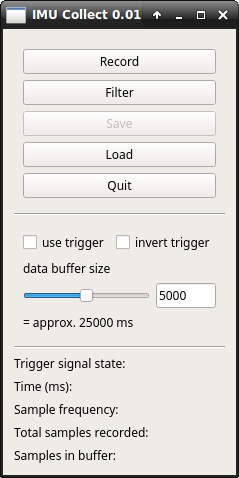
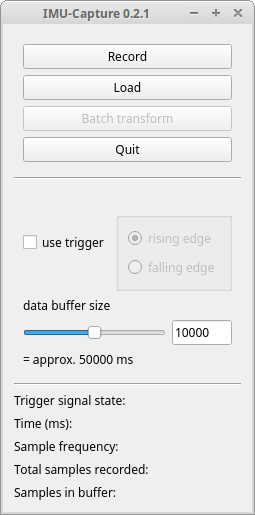
started updating manual

Changed region(s): [[0.0, 0.0, 1.0, 1.0], [0.0879, 0.4393, 0.4393, 0.5272], [0.4686, 0.4393, 0.8787, 0.5272]]

diff --git a/manual/manual.tex b/manual/manual.tex
@@ -49,6 +49,10 @@ bindingoffset=10mm, top=25mm,bottom=25mm}
 
 
 \newcommand{\name}{IMU-Capture}
+
+\newcommand{\arduinoFilename}{\texttt{ic_arduino.ino}
+\newcommand{\arduinoDirectory}{ic_arduino}
+
 \newcommand{\programVersion}{0.1}
 \newcommand{\manualVersion}{0.1}
 \newcommand{\email}{eric.tytell@tufts.edu}
@@ -168,7 +172,7 @@ documents the procedure we have used to prepare the mpu9250 for use with
 \url{http://www.url_for_cassandras_manual.com}
 
 For testing purposes, or if the added size and weight are acceptable, an mpu9250
-mounted on a circuit-board can be used with \name{}.
+mounted on a circuit-board can be used.
 
 
 \section{SPI}
@@ -180,20 +184,20 @@ exchange data with a master device (the Arduino) over a single bus consisting of
 
 \section{Wiring the Arduino}
 \label{sec:wiring}
-Table \ref{tab:wiring} summarizes the process of connecting IMUs to the Arduino.
-It may be necessary to use a breadboard, especially if multiple IMUs are used.
-Figure \ref{fig:wiring} shows an Arduino wired to a single IMU.  Pins 8, 9, and
-10 are used for \emph{chip select} lines for up to three IMUs. Pin 11 carries
-data traveling from the Arduino to the IMUs, i.e. Master-Out, Slave-In (MOSI).
-Pin 12 carries data traveling from the IMUs to the Arduino, i.e. Master-In,
-Slave Out (MISO). Pin 13 carries a clock signal which regulates timing of the
-communication protocol.  Each IMU should be connected to 3.3V power (available
-on the Arduino Uno) and to ground.
+Table \ref{tab:wiring} summarizes the process of connecting the IMUs to the
+Arduino.  It may be necessary to use a breadboard, especially if multiple IMUs
+are used.  Figure \ref{fig:wiring} shows an Arduino wired to a single IMU.  Pins
+8, 9, and 10 are used for \emph{chip select} lines for up to three IMUs. Pin 11
+carries data traveling from the Arduino to the IMUs, i.e. Master-Out, Slave-In
+(MOSI).  Pin 12 carries data traveling from the IMUs to the Arduino, i.e.
+Master-In, Slave Out (MISO). Pin 13 carries a clock signal which regulates
+timing of the communication protocol.  Each IMU should be connected to 3.3V
+power (available on the Arduino Uno) and to ground.
 
 If using a trigger, connect it to Pin 4 and to ground.
 
 Connect the Arduino to the PC with a USB cable.  To ensure adequate power,
-especially if using multiple IMUs, it is recommended to connect the Arduino to
+especially if using multiple IMUs, it may be necessary to connect the Arduino to
 an external power source instead of relying on the USB port for power.
 
 \begin{table}
@@ -239,75 +243,68 @@ Uno.}
 
 \chapter{Installation}
 
-\section{Arduino IDE}
-While there are many ways to install program code onto the Arduino, we have
-tested \name{} using the Arduino IDE version 1.8.1. Earlier versions may lack
-some of library definitions used by \name{}.
+\section{Arduino}
+\label{sec:installarduinocode}
+The portion of \name{} that runs on an Arduino is called \arduinoFilename{}. It
+is located inside the directory \arduinoDirectory{} and is distributed with the
+rest of \name{}.  We have succesfully installed \arduinoFilename{} on an Arduino
+Uno using the Arduino IDE version 1.8.1. Earlier versions of the Arduino IDE may
+lack some of library definitions used by \name{}. Use the Arduino IDE 1.8.1 or
+some other means to install \arduinoFilename{} on the Arduino.
 
 The Arduino IDE can be downloaded from:
 \url{https://www.arduino.cc/en/Main/Software}
-
-If your operating system has a package management system, it might be able to
-install the Arduino IDE automatically. For example, on a Debian-based system you
-can use \texttt{apt}:
-\begin{verbatim}
-# apt install Arduino-core
-\end{verbatim}
-
-\section{Install \name{} on the Arduino}
-\label{sec:installarduinocode}
-
-Transfer the file \verb|ic_tx/ic_tx.ino| onto Arduino.  This can be accomplished
-using the Arduino IDE graphical user interface.  Alternatively, the Arduino IDE
-can be used to program the Arduino directly from the command line:
-
-\begin{verbatim}
-# arduino --upload ic_tx/ic_tx.ino
-\end{verbatim}
-
-For more information about the Arduino command line interface, see:
-\url{https://github.com/arduino/Arduino/blob/master/build/shared/manpage.adoc}
 
 
 \section{PC}
 \label{sec:installPc}
 
-\name{} requires Python 3. It has been tested with Python version 3.5. Thus, it
-is recommended to use Python version 3.5 or later. On windows, \name{} has been
-successfully installed with the Anaconda Python distribution
-(\url{https://www.anaconda.com}), but tests failed to install \name{} with a
-standalone Python installation.
+\section{Binary}
 
-It is recommended to use using pip (the Python Package Index) to install
-\name{}: \url{https://pypi.python.org/pypi/pip}
+A binary installation (.msi) file is provided for Windows users. It includes the
+python interpreter and all required libraries. It has been tested on Windows 10.
+To install \name{}, simply download and run the installer.
+
+\section{Pip}
+
+\name{} requires Python 3. It has been tested with Python version 3.5. Thus, it
+is recommended to use Python version 3.5 or later.  With Python 3 installed, you
+can use pip pip (the Python Package Index) to install \name{}:
 
 \begin{verbatim}
-# cd PROGRAM_NAME
 # pip install --upgrade pip
+# cd /path/to/imucapture/
 # pip install ./
 \end{verbatim}
 
-Pip will automatically install any of the following dependencies, and any of their sub-dependencies, if needed:
+
+Pip should automatically install any of the following dependencies, and any of their sub-dependencies, if needed:
 \begin{itemize}
-\item h5py
-\item pyqtgraph
-\item pyserial
-\item pyqt5
-\item scipy
-\item numpy-quaternion
+\item H5py
+\item PyQtGraph
+\item pySerial
+\item PyQt5
+\item pyquaternion
 \end{itemize}
 
-Once \name{} has been installed, it can be started from the command line:\\
+
+\chapter{Running}
+
+If \name{} was installed with the Windows installer, it can be started by double-clicking the
+executable (.exe) icon or desktop shortcut.
+
+If \name{} was installed with pip, it can be started from the command line:\\
 
 \texttt{
 \# \name{}
 }
 
-On Windows, informational and error messages will not be displayed unless
-\name{} is invoked by the Python interpreter explicitly:
+On Windows, if \name{} is installed with pip and invoked from the command line,
+informational and error messages will not be displayed unless \name{} is invoked
+by the Python interpreter explicitly:
 
 \texttt{
-\# python \name{}
+\# python -m \name{}
 }
 
 When \name{} starts, the main control panel will be visible (Figure
@@ -322,23 +319,6 @@ When \name{} starts, the main control panel will be visible (Figure
 \end{figure}
 
 
-\chapter{The data buffer} \name{} uses a single data buffer to hold IMU data.
-When data is recorded from the IMUs, the data buffer is first erased. Then each
-sample is added to the buffer as it is recorded. When data is not being
-recorded, the buffer can be saved to a file, or a file can be loaded into the
-buffer, erasing any previous contents. Data processing operations can be
-performed on the data buffer, altering it irreversibly.  Therefore, any time the
-data buffer contains valuable data it is recommended to save it to file before
-collecting new data, loading another file, or executing data processing
-operations.
-
-The \emph{data buffer length (\# samples)} slider adjusts the size of the data
-buffer. When each new sample is received, it is added to the data buffer. If the
-buffer is already full (the number of samples in the buffer is equal to the
-size of the buffer), the oldest sample in the buffer is deleted. If the size of
-the buffer is adjust to be smaller than the number of samples in the buffer, the
-oldest samples in the buffer are deleted until the number of samples in the
-buffer is equal to the buffer length.
 
 
 \chapter{Collecting data}
@@ -349,13 +329,26 @@ Arduino and instructs it to begin collecting data from the IMUs at 200Hz. This
 sample rate is hard-coded, and was determined to be near the maximum possible
 with the Arduino Uno.
 
-
+A new data window containing an empty data buffer is opened. As data samples are received
+from the Arduion, each sample is added to data buffer.
+The \emph{data buffer length (\# samples)} slider adjusts the size of the data
+buffer to which recorded data is currently being written.  When each new sample
+is received, it is added to the data buffer. If the buffer is already full (the
+number of samples in the buffer is equal to the size of the buffer), the oldest
+sample in the buffer is deleted. If the size of the buffer is adjust to be
+smaller than the number of samples in the buffer, the oldest samples in the
+buffer are deleted until the number of samples in the buffer is equal to the
+buffer length.
 
 The \emph{stop} button (or the trigger, as described in Section \ref{sec:trigger}),
 causes the PC first to instruct the Arduino to stop collecting data and then to
 halt communication with the Arduino.
 
+\section{Plots}
+\label{sec:plots}
+
 Table \ref{tab:units} lists the units used for each sensor modality.
+
 \begin{table}
 \centering
 \begin{tabular}{@{}*3l@{}}
@@ -370,11 +363,6 @@ magnetometer  & magnetic flux density & microteslas \\
 \caption{Units used by \name{}}
 \label{tab:units}
 \end{table}
-
-
-
-\section{Plots}
-\label{sec:plots}
 
 As samples received from the Arduino are recorded in the data buffer, they
 become visible in the data visualization plots. For each IMU, one row of three
@@ -419,18 +407,6 @@ there is a trigger connected to the Arduino.
 \chapter{Saving and loading}
 \label{sec:savingloading}
 
-\section{File formats}
-
-\label{sec:fileformats}
-The \csv{} file format stores data in plain text, using newlines to delimit
-samples and commas to delimit measurements within each sample.  \name{} uses the
-CSV module in the Python Standard Library with default formatting parameters:
-\url{https://docs.python.org/3/library/csv.html}
-
-The \hdf{} format is designed to store large amounts of data. It is generally
-more compact than \csv{}. \name{} uses the h5py Python package to read and write
-\hdf{} files: \url{http://www.h5py.org/}
-
 
 \section{Saving}
 
@@ -448,35 +424,9 @@ data buffer, overwriting any data stored there.  The \emph{load} button is
 disabled while data is being recorded.
 
 
-\chapter{Filter data}
-
-Due to factors such as the effect of gravity upon the accelerometer, sensor
-drift, and noise, the raw data collected by \name{} will not reflect the actual
-dynamics of the IMUs. \name{} includes several algorithms that can be applied to
-IMU data after it has been recorded. Currently, it is not possible to apply
-these algorithms in real time as the data is recorded. Running one of these
-algorithms will have to main effects upon recorded data: 1) The effect of
-gravity is removed from the acceleration data, leaving only \emph{dynamic}
-acceleration. 2) The rotational speed data is converted into rotational angle
-data, that is, the rotation of the IMUs is integrated over time.
-
-Currently, filtering algorithms only apply to a single IMU.
-
-The \emph{filter} button opens the data processing control panel (Figure
-\ref{fig:filter}).
-
-\begin{figure}[]
-    \begin{center}
-        \includegraphics[height=3in]{screenshot_process}
-    \end{center}
-    \caption{Data filtering control panel} 
-    \label{fig:filter}
-\end{figure}
-
-
 \section{Calibration}
 
-Before any of the filtering algorithms can be applied, it is necessary to load a
+Before any of the transformation algorithms can be applied, it is necessary to load a
 calibration file by clicking the \emph{Parse calibration file} button. Three
 main pieces of information are extracted from the calibration file:
 \begin{enumerate}
@@ -504,6 +454,37 @@ If \name{} is unable to load a calibration file, error messages explaining why
 can help determine if there are problems with the file and help to record a
 correct calibration file. See Section \ref{sec:calibErrorMessages} for more
 discussion about these messages.
+
+
+
+
+\chapter{Transform data}
+
+It is only possible to transform data after a calibration has been set.
+
+Due to factors such as the effect of gravity upon the accelerometer, sensor
+drift, and noise, the raw data collected by \name{} will not reflect the actual
+dynamics of the IMUs. \name{} includes several algorithms that can be applied to
+IMU data after it has been recorded. Currently, it is not possible to apply
+these algorithms in real time as the data is recorded. Running one of these
+algorithms will have to main effects upon recorded data: 1) The effect of
+gravity is removed from the acceleration data, leaving only \emph{dynamic}
+acceleration. 2) The rotational speed data is converted into rotational angle
+data, that is, the rotation of the IMUs is integrated over time.
+
+Currently, filtering algorithms only apply to a single IMU.
+
+The \emph{filter} button opens the data processing control panel (Figure
+\ref{fig:filter}).
+
+\begin{figure}[]
+    \begin{center}
+        \includegraphics[height=3in]{screenshot_process}
+    \end{center}
+    \caption{Data filtering control panel} 
+    \label{fig:filter}
+\end{figure}
+
 
 
 \section{Filter mode}
